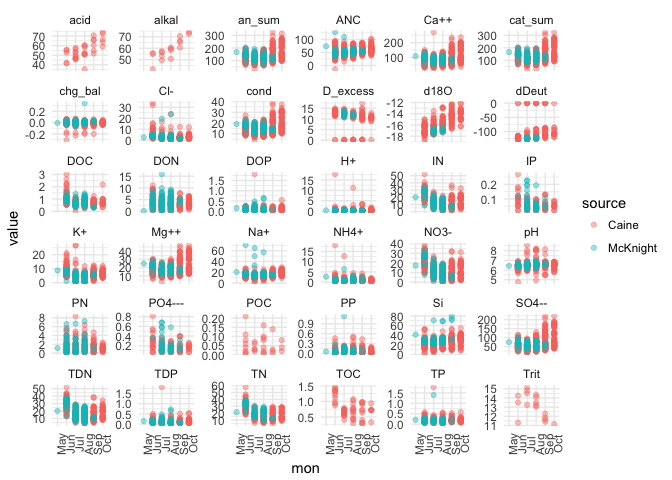
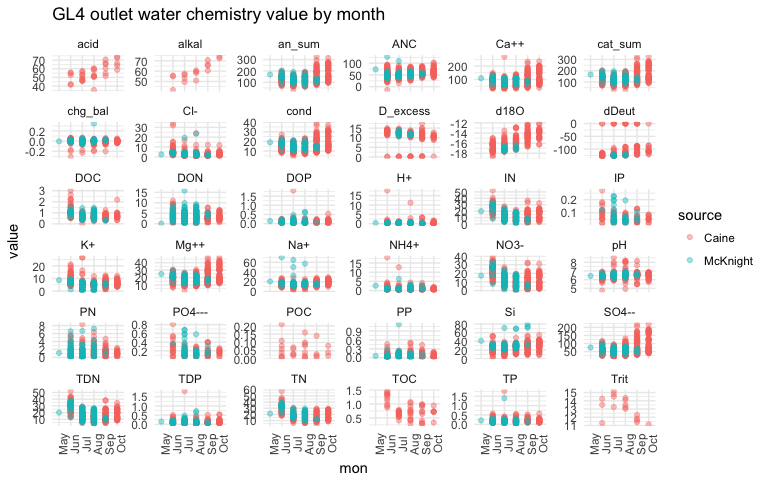
Add titles, hide code for summary figs

Changed region(s): [[0.0, 0.0, 1.0, 0.9688], [0.4375, 0.9688, 0.5, 1.0]]

diff --git a/GL4_WQ_waterchem_datamunging.md b/GL4_WQ_waterchem_datamunging.md
@@ -1,7 +1,7 @@
 Water quality and chemistry data munging for Green Lake 4
 ================
 CTW
-2018-03-18
+2018-03-19
 
 Script purpose
 --------------
@@ -286,112 +286,4 @@ The outlet samples were collected by both groups in the summer months (Jun - Oct
 Data summary
 ------------
 
-``` r
-# How many samples are there by month?
-GL4_waterchem %>%
-  mutate(mon = month(date, label=TRUE, abbr = TRUE)) %>%
-  filter(location == "Outlet") %>%
-  ggplot() +
-  geom_point(aes(mon, value, col=source), alpha=0.4) +
-  theme_minimal() +
-  theme(axis.text.x = element_text(angle=90)) +
-  facet_wrap(~metric, scales = "free_y")
-```
-
-![](GL4_WQ_waterchem_datamunging_files/figure-markdown_github/Summarize%20GL4%20outlet%20data-1.png)
-
-``` r
-GL4_waterchem %>%
-  mutate(mon = month(date, label=TRUE, abbr = TRUE)) %>%
-  filter(location == "Outlet") %>%
-  group_by(mon, metric, source) %>%
-  summarise(mean_value = mean(value, na.rm=TRUE), 
-            se = sd(value, na.rm=TRUE)/sqrt(length(value)),
-            nobs = length(value)) %>%
-  ggplot() +
-  geom_errorbar(aes(mon, ymax = mean_value +se, ymin = mean_value-se, col=source), width = 0.25, alpha=0.7) +
-  geom_point(aes(mon, mean_value, col=source), alpha=0.4) +
-  theme_minimal() +
-  theme(axis.text.x = element_text(angle=90)) +
-  facet_wrap(~metric, scales = "free_y")
-```
-
-    ## Warning: Removed 29 rows containing missing values (geom_errorbar).
-
-![](GL4_WQ_waterchem_datamunging_files/figure-markdown_github/Summarize%20GL4%20outlet%20data-2.png)
-
-``` r
-GL4_waterchem %>%
-  mutate(mon = month(date, label=TRUE, abbr = TRUE)) %>%
-  filter(location == "Lake") %>%
-  ggplot() +
-  geom_point(aes(mon, value, col=year), alpha = 0.4) +
-  scale_color_distiller(palette= "BrBG") +
-  theme_minimal() +
-  theme(axis.text.x = element_text(angle=90)) +
-  facet_wrap(~metric, scales = "free_y")
-```
-
-![](GL4_WQ_waterchem_datamunging_files/figure-markdown_github/Summarize%20GL4%20outlet%20data-3.png)
-
-``` r
-GL4_waterchem %>%
-  mutate(mon = month(date, label=TRUE, abbr = TRUE)) %>%
-  filter(location == "Lake") %>%
-  group_by(mon, depth, metric) %>%
-  summarise(mean_value = mean(value, na.rm=TRUE), 
-            se = sd(value, na.rm=TRUE)/sqrt(length(value)),
-            nobs = length(value)) %>%
-  ggplot() +
-  geom_errorbar(aes(mon, ymax=mean_value+se, ymin=mean_value-se, col=as.factor(depth)), width=0.25) +
-  geom_point(aes(mon, mean_value, fill=as.factor(depth)), col="gray50", pch=21, alpha = 0.4) +
-  scale_fill_brewer(name="Depth", palette= "PuBu", direction = 1) +
-  scale_color_brewer(name= "Depth", palette= "PuBu", direction = 1) +
-  labs(y = "Mean value", x = "Month", 
-       title = paste("Green Lake 4 water chemistry", min(GL4_waterchem$year), "-", max(GL4_waterchem$year)))+
-  theme_minimal() +
-  theme(axis.text.x = element_text(angle=90)) +
-  facet_wrap(~metric, scales = "free_y")
-```
-
-    ## Warning: Removed 83 rows containing missing values (geom_errorbar).
-
-![](GL4_WQ_waterchem_datamunging_files/figure-markdown_github/Summarize%20GL4%20outlet%20data-4.png)
-
-``` r
-GL4_WQ_long %>%
-  mutate(mon = month(date, label = TRUE, abbr = TRUE)) %>%
-  filter(location !="Lake") %>%
-  ggplot() +
-  geom_boxplot(aes(mon, value, group= mon), col= "gray50", alpha=0.4) +
-  geom_point(aes(mon, value, fill= yr), col= "gray50", pch=21, alpha=0.4) +
-  scale_fill_distiller(palette = "BrBG", direction = 1) +
-  theme_minimal() +
-  theme(axis.text.x = element_text(angle= 90)) +
-  facet_wrap(location~metric, scales = "free_y", ncol=8)
-```
-
-![](GL4_WQ_waterchem_datamunging_files/figure-markdown_github/Summarize%20GL4%20outlet%20data-5.png)
-
-``` r
-GL4_WQ_long %>%
-  mutate(mon = month(date, label = TRUE, abbr = TRUE)) %>%
-  mutate(core_depth = ifelse(depth %in% 0:0.9, 0, depth)) %>%
-  filter(location == "Lake" & core_depth %in% c(0, 3, 9)) %>%
-  group_by(mon, metric, depth) %>%
-  summarise(mean_value = mean(value, na.rm=TRUE), 
-            se = sd(value, na.rm=TRUE)/sqrt(length(value)),
-            nobs = length(value)) %>%
-  ggplot() +
-  geom_point(aes(mon, mean_value, fill=as.factor(depth)), col="gray50", pch=21, position = position_dodge(width=0.2), alpha=0.7) +
-  geom_errorbar(aes(mon, ymax = mean_value +se, ymin = mean_value-se, col=as.factor(depth)), width = 0.25, alpha=0.7, position = position_dodge(width=0.2)) +
-  scale_color_brewer(name= "Depth", palette = "PuBu", direction = 1) +
-  scale_fill_brewer(name= "Depth", palette = "PuBu", direction = 1) +
-  theme_minimal() +
-  theme(axis.text.x = element_text(angle= 90)) +
-  facet_wrap(~metric, scales = "free_y")
-```
-
-    ## Warning: Removed 29 rows containing missing values (geom_errorbar).
-
-![](GL4_WQ_waterchem_datamunging_files/figure-markdown_github/Summarize%20GL4%20outlet%20data-6.png)
+![](GL4_WQ_waterchem_datamunging_files/figure-markdown_github/Summarize%20GL4%20outlet%20data-1.png)![](GL4_WQ_waterchem_datamunging_files/figure-markdown_github/Summarize%20GL4%20outlet%20data-2.png)![](GL4_WQ_waterchem_datamunging_files/figure-markdown_github/Summarize%20GL4%20outlet%20data-3.png)![](GL4_WQ_waterchem_datamunging_files/figure-markdown_github/Summarize%20GL4%20outlet%20data-4.png)![](GL4_WQ_waterchem_datamunging_files/figure-markdown_github/Summarize%20GL4%20outlet%20data-5.png)![](GL4_WQ_waterchem_datamunging_files/figure-markdown_github/Summarize%20GL4%20outlet%20data-6.png)
